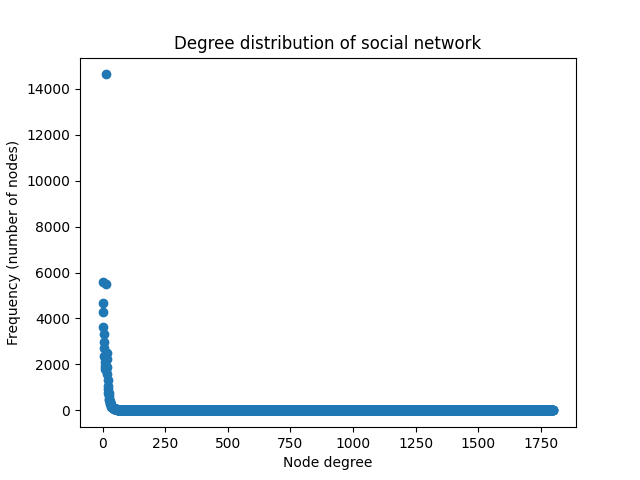
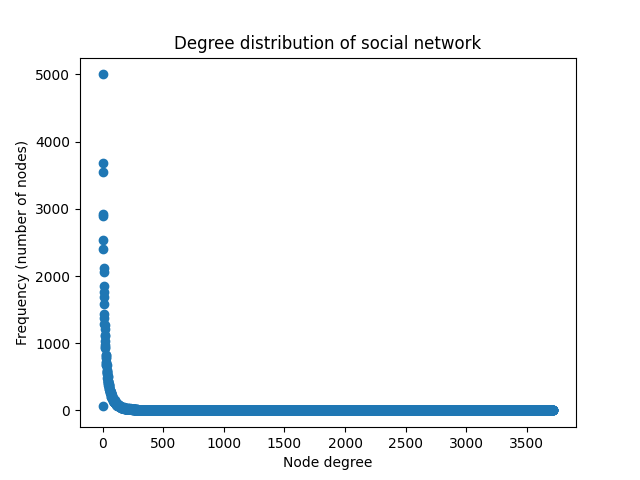
with random defence

diff --git a/runner.py b/runner.py
@@ -35,21 +35,25 @@ class Runner:
 
         print('Initiating experiment on {}'.format(self.name))
         print('Network information \n', nx.info(self.network))
-
+    
         molly_reed = []
-        for i in range(self.args.niter):
+
+        for i in range(int(self.args.niter)):
 
             if self.args.algorithm == 'random':
+
                 self.network = self.attack.random_attack()
+                val = self.metric.molly_reed()
+                molly_reed.append(val)
+                #print(molly_reed)
                 self.network = self.defense.random_defense()
+                val = self.metric.molly_reed()
+                molly_reed.append(val)
 
             elif self.args.algorithm == 'smart':
                 self.network = self.attack.smart_attack(self.p)
                 self.network = self.defense.smart_defense()
-
-            val = self.metric.molly_reed()
-            molly_reed.append(val)
-
+            
             if i % 100 == 0:
                 plot_mr_robustness(molly_reed, self.results_dir, self.name)
                 degree_dist(self.network, self.results_dir, self.name, i)

diff --git a/utils/misc.py b/utils/misc.py
@@ -13,11 +13,11 @@ def get_args():
     parser = argparse.ArgumentParser("Experiment Hyperparamters")
     parser.add_argument("--network", type=str, default='social network', help="network name",
                         choices=['social network', 'p2p network', 'email network', 'as network'])
-    parser.add_argument("--algorithm", type=str, default='smart', help="algorithm name",
+    parser.add_argument("--algorithm", type=str, default='random', help="algorithm name",
                         choices=['random', 'smart'])
     parser.add_argument("--criterion", type=str, default='molly_reed', help="robustness metric",
                         choices=['molly_reed'])
-    parser.add_argument("--niter", type=float, default=1e4, help="number of steps in experiment")
+    parser.add_argument("--niter", type=float, default=1e3, help="number of steps in experiment")
     parser.add_argument("--n_edge", type=float, default=1e2, help="number of randomly selected edges")
     parser.add_argument("--p", type=float, default=0.01, help="probability of selection in smart algorithm")
 

diff --git a/algorithm/defense.py b/algorithm/defense.py
@@ -4,12 +4,24 @@ import networkx as nx
 
 
 class Defense():
+
     def __init__(self, G, n):
         self.G = G
-        self.n = n
+        self.n = int(n)
 
     def random_defense(self):
-        return self.G
+
+        nodes = list(self.G.nodes())
+
+        if not nodes:
+            return self.G
+
+        else:
+            for i in range(self.n):
+                random_nodes = random.sample(nodes, 2)
+                if random_nodes[0] in self.G.neighbors(random_nodes[1]) == False:
+                 self.G.add_edge(random_nodes[0], random_nodes[1])
+            return self.G
 
     def smart_defense(self):
         return self.G

diff --git a/utils/plot.py b/utils/plot.py
@@ -14,6 +14,8 @@ def plot_mr_robustness(data, dir, name):
     plt.xlabel('Time Step (t)')
     plt.ylabel('Molly-Reed Criteration')
     plt.savefig(dir + "/molly reed_result.png", format="PNG")
+    plt.close()
+
 
 
 def degree_dist(network, dir, name, time):
@@ -26,6 +28,7 @@ def degree_dist(network, dir, name, time):
     plt.xlabel('Node degree')
     plt.ylabel('Frequency (number of nodes)')
     plt.savefig(dir + "/degree dist_" + str(time) + ".png", format="PNG")
+    plt.close()
 
 # def graph_visualization(G):
     # return nx.write_gml(G, "email-Enron.gml")

diff --git a/algorithm/attack.py b/algorithm/attack.py
@@ -6,7 +6,7 @@ import networkx as nx
 class Attack():
     def __init__(self, G, n):
         self.G = G
-        self.n = n
+        self.n = int(n)
 
 
     def random_attack(self):
